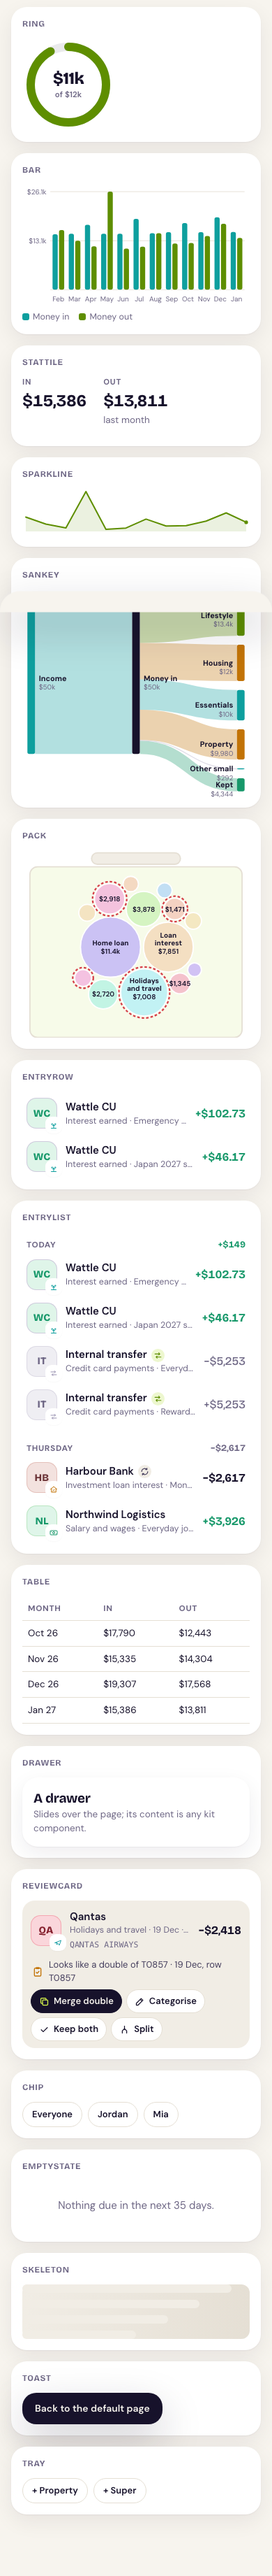
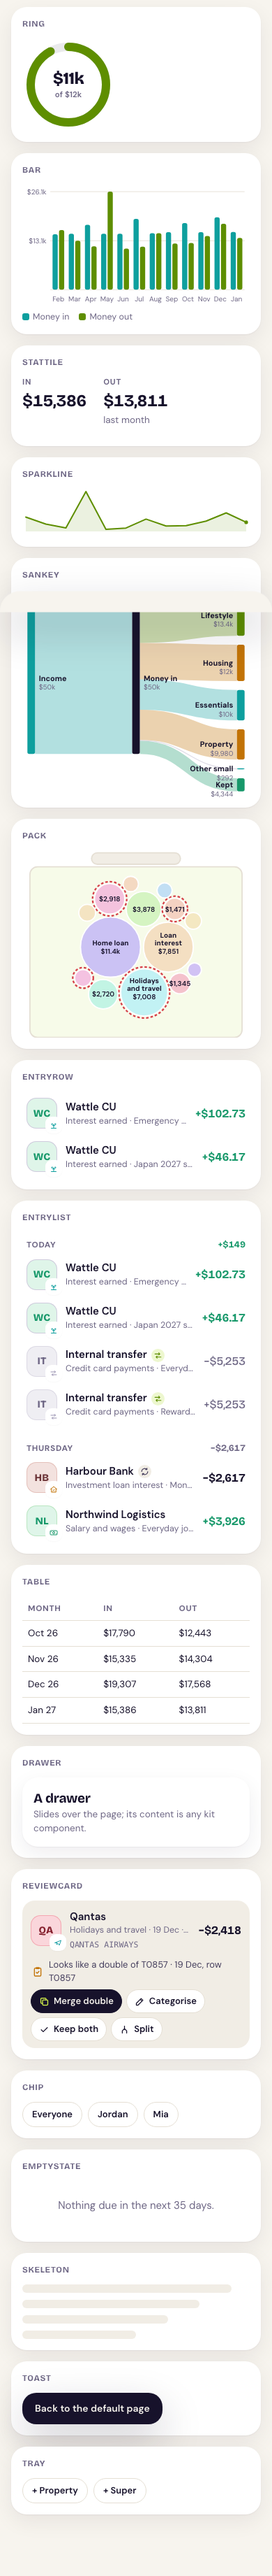
Docs for phase C; the gallery's Skeleton no longer clashes with the page's .skel

Changed region(s): [[0.0615, 0.874, 0.9231, 0.9053]]

diff --git a/src/kit/widgets.js b/src/kit/widgets.js
@@ -78,7 +78,7 @@
   K.Chip = (label, on) => `<button class="chip${on ? " on" : ""}">${esc(label)}</button>`;
   K.StatTile = (k, v, d) => `<div class="stat"><div class="k">${esc(k)}</div><div class="v num">${esc(v)}</div>${d ? `<div class="sub">${esc(d)}</div>` : ""}</div>`;
   K.EmptyState = (text) => `<div class="empty">${esc(text)}</div>`;
-  K.Skeleton = (lines) => `<div class="skel" aria-hidden="true">${Array.from({ length: lines || 3 }, (_, i) => `<span style="width:${92 - i * 14}%"></span>`).join("")}</div>`;
+  K.Skeleton = (lines) => `<div class="kskel" aria-hidden="true">${Array.from({ length: lines || 3 }, (_, i) => `<span style="width:${92 - i * 14}%"></span>`).join("")}</div>`;
   K.Tray = (items) => `<div class="tray" role="group" aria-label="Hidden widgets">${items.map((i) => `<button class="chip" data-wshow="${esc(i.id)}">+ ${esc(i.title)}</button>`).join("")}</div>`;
   return K;
 });

diff --git a/src/style.css b/src/style.css
@@ -515,7 +515,7 @@ figure.diagram figcaption{font-size:13px;color:var(--muted);max-width:70ch}
 .whrow{display:flex;justify-content:space-between;gap:12px;align-items:baseline}
 .whrow .mid{display:flex;flex-direction:column;min-width:0}.whrow .t{font-weight:600}.whrow .s{font-size:12.5px;color:var(--muted)}
 .tray{display:flex;flex-wrap:wrap;gap:8px}
-.skel{display:flex;flex-direction:column;gap:10px}.skel span{height:12px;border-radius:6px;background:var(--surface2)}
+.kskel{display:flex;flex-direction:column;gap:10px}.kskel span{height:12px;border-radius:6px;background:var(--surface2)}
 .kitg{display:grid;grid-template-columns:repeat(2,minmax(0,1fr));gap:16px}
 .kitg .card h3{font-size:12px;letter-spacing:.06em;text-transform:uppercase;color:var(--muted);margin:0 0 12px}
 .kitg .wide{grid-column:span 2}

diff --git a/README.md b/README.md
@@ -21,7 +21,9 @@ Version 1.1, shipped. Verified live on 3 November 2026: live read and write thro
 connector, the onboarding's writes, Ask the Kitty, two month-end closes through the import pipeline, light and
 dark themes, phone install. See `CHANGELOG.md`; known limits are listed at the end of this file.
 
-**2.0, phase B (the row and the review), 4 November 2026, on branch `v2-row`:** Activity on `EntryRow` with monograms and
+**2.0, phase C (widgets, signals, the canvas, the kit gallery), 5 November 2026:** Home is widgets the sheet switches on, arranged per person, on GridStack. The published 1.1 page has not been cut over: that waits on the phase B checks on the staging artifact. See `CHANGELOG.md`.
+
+**2.0, phase B (the row and the review), 4 November 2026:** Activity on `EntryRow` with monograms and
 brand icons, the merchant dictionary, the Review queue with its sheet writes, the fortune cookie that proposes rules, and
 "Worth it?"; verified on a private staging artifact against the v2 sheet. See `CHANGELOG.md`.
 
@@ -37,6 +39,7 @@ reading the original sheet until phase C cuts over. `python3 build.py --v2` buil
 | `src/engine.js` | Every number: parsing of connector strings and snapshot values, the model, verdict, upcoming, goals, leaks, search. Pure functions; `node --test test.js` runs them with the sheet as oracle. |
 | `src/app.js` | The page: Home, Activity, Insights, Goals, Setup; onboarding; drawers; the three writes; Ask the Kitty. |
 | `src/kit/entry-row.js` | The kit: `EntryRow` (monogram, brand category icon, clean name, signed amount, badges), `EntryList` grouped by day, `ReviewCard`, `WorthRow`. Pure functions from the model to HTML; the page binds the clicks. |
+| `src/kit/widgets.js` | The widgets: manifests, what switches them on, and the layout logic, pure and tested in node. `src/app.js` mounts them on GridStack (`src/vendor/` holds its stylesheet). `python3 build.py --v2` also writes `dist/kit.html`, the component gallery. |
 | `merchants/` | The merchant dictionary (370 Australian merchants and generic descriptors with patterns, categories, hues, websites) and the category-to-icon map; `README.md` records the miss rate. |
 | `src/style.css`, `src/shell.html` | Tokens (light and dark, four accents), components; the brand sprite (`brand/icons/sprite.svg`) is inlined at build. |
 | `src/data-sources.json` | How a household gets bank data in, by country and institution, with the landing rules. Rendered on Setup. |
@@ -176,7 +179,7 @@ the data pipeline and the deploy notes.
 - Bank export paths for the real banks are documented from product knowledge, not yet verified on each bank's site; the skill stamps them as it verifies. The parody portals' paths are the first verified entries (`demo` in `src/data-sources.json`).
 - The import pipeline is Python on a laptop; a scheduled, supervised version is the next real step.
 - Tested with a 925-row sheet; reads are chunked for larger ones but not yet exercised past a few thousand rows.
-- Verified on Chrome, Safari (iOS) and the Claude apps. Not tested on Firefox.
+- Verified on Chrome, Safari (iOS) and the Claude apps. Not tested on Firefox. The 2.0 canvas is verified in Chromium only, phones by emulation; phones skip GridStack and use a handle and arrows.
 
 ## Decisions (why this shape)
 
